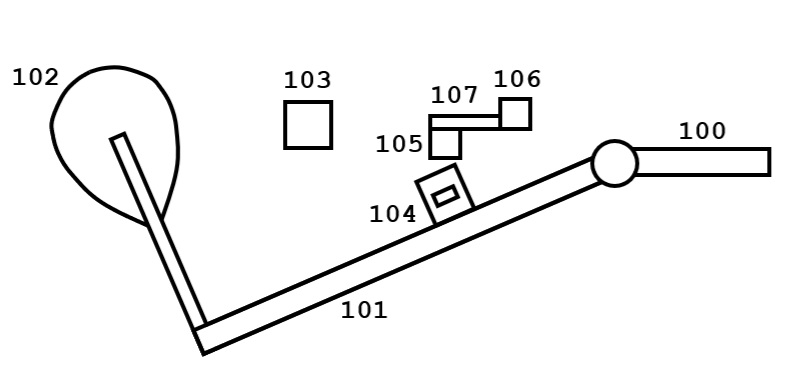
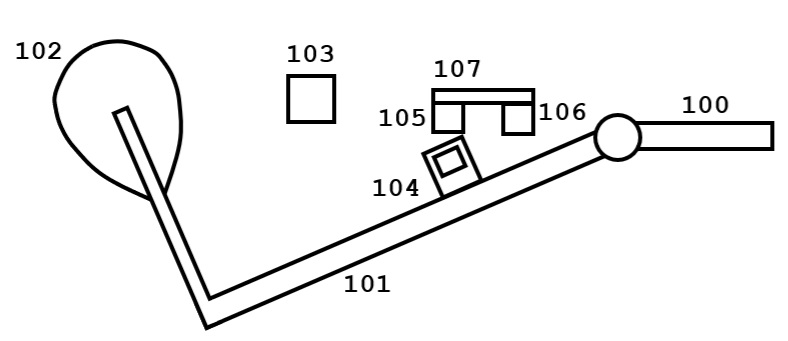
pdps general edits

diff --git a/pdps/README.md b/pdps/README.md
@@ -2,6 +2,8 @@
 
 The open source hybrid piano [1][2] (*OSH Piano*, also known as *stem piano*) measures piano hammer and key positions, converts measurements to velocity, and outputs the results over MIDI. The piano system streams raw sampled hammer and key positions over Ethernet. The key positions are also used to infer damper position.
 
+A hybrid piano combines the physical action of an acoustic piano with MIDI, sound generation, and other features of a digital keyboard.
+
 The following describes a measurement and processing system including compensating for error sources.
 
 The following system is not open source nor included as part of an open source piano.
@@ -21,11 +23,13 @@ Side view of mechanical system and sensors at hammer.
 | 100 | Flange | Standard component of a grand piano action. |
 | 101 | Shank | Standard component of a grand piano action. |
 | 102 | Hammer | Standard component of a grand piano action. |
-| 103 | Stop Bar | Physically stops the hammer motion. In a piano, the hammer would stop when it hits a piano string. |
-| 104 | Optical gate | Precision cut gap in a thin material. Gap shape not necessarily as shown in figure. An alternate method is blocking in center and gap above and below in a 'flag' type structure. |
-| 105 | Phototransmissive System (PTS) | Transmissive light emitting and receiving devices that straddle the optical gate 104 as the hammer 101 moves from rest position to position at stop bar 103. For absolute position measurement references. |
+| 103 | Stop Bar | Physically stops the hammer motion. In a full piano, the hammer would stop when it hits a piano string. |
+| 104 | Optical gate * | Precision cut gap (rectangular region inset as part of (104)) in a thin material mounted to the hammer shank. Gap shape not necessarily as shown in figure. An alternate method is blocking in center and gap above and below in a 'flag' type structure. |
+| 105 | Phototransmissive System (PTS) | Transmissive light emitting and receiving devices that straddle the optical gate (104) as the hammer (101) moves from rest position to position at stop bar (103). For absolute position measurement references. |
 | 106 | Photoreflective System (PRS) | Reflective light emitting and receiving device for continuous hammer shank relative position measurements. |
-| 107 | Sensing Mount | Connecting system for PTS 105 and PRS 106. |
+| 107 | Sensing Mount | Connecting system for PTS (105) and PRS (106). Also includes printed circuit board for biasing circuits and wire connection points. |
+
+* Description later, Fig. 4, describes optical gate (104) initially blocking PTS light. To make all components visible, Fig. 1 shows optical gate (104) not blocking PTS light when hammer is in rest position. In either case, initializing unblocking as shown in Fig. 1 requires only a trivial change to processing.
 
 ## Fig. 2 Mechanical System on Key
 
@@ -36,14 +40,16 @@ Side view of mechanical system and sensors at back of piano key.
 | Item | Name | Description |
 | - | - | - |
 | 201 | Piano key | Standard component of a grand piano action. Shown in figure is back side of the key at damper mechanism mount. Toward left in figure is rear of piano. Movement of key is up and donw. |
-| 204 | Optical gate | Precision cut gap in a thin material. Gap shape not necessarily as shown in figure. |
+| 204 | Optical gate * | Precision cut gap in a thin material. Gap shape not necessarily as shown in figure. |
 | 205 | Phototransmissive System (PTS) | Same as 105. |
 | 206 | Photoreflective System (PRS) | Same as 106. |
 | 207 | Sensing Mount | Same as 107 with differences as needed to account for different physical geometry of a piano key compared to a hammer shank. |
 
+* Similar to Fig. 1, for illustrative clarity only, Fig. 2 shows optical gate (204) initially not blocking PTS (205).
+
 ## Fig. 3 Sensor System (104, 105, 106, 107)
 
-Top view of sensor system at hammer shank. Sensor system for piano key (204), (205), (206), and (207) is functionally identical with different geometries. Components can locate at other positions along hammer shank. Fig. 3 shows one possible arrangement. The location depends on physical access, the transmitting and sensing range of PRS and PTS, and size of the optical gate (104) among other considerations. 
+Top view of sensor system at hammer shank. Sensor system for piano key (204), (205), (206), and (207) is functionally identical with different geometries. Components can locate at other positions along hammer shank. Fig. 3 shows one possible arrangement. The location depends on physical access, the transmitting and sensing range of PRS and PTS, and size of the optical gate (104), (304) among other considerations. 
 
 <img src="./pdps_fig3.jpg" alt="drawing" width="400"/>
 
@@ -67,7 +73,7 @@ The vertical axis is the analog output of a PTS or PRS photoreceiver. The horizo
 | - | - | - |
 | 400 | PRS photoreceiver output signal | Response is nonlinear and subject to PRS (106) manufacturing tolerances.
 | 401 | PTS photoreceiver output signal | Response is high when the optical gate (104) (304) is not blocking PTS photo emitter (306) and photo receiver (305) light path.
-| 402 | Rest position | Output signal of PTS (105) is at level 406 and output of PRS (106) is at level 407.
+| 402 | Rest position | Output signal of PTS (105) is at level 406 and output of PRS (106) is at level 407. If optical gate (104) position initializes to not block PTS (105) light path, then PTS output signal (401) initializes at level 411. Adjustments to processing as described later are minor.
 | 403 | Optical gate start opening | Output signal of PTS (105) photoreceiver goes from level 406 to level 411 as optical gate opening starts to cross the PTS photo emitter (306) and photo receiver (305) light path. Output signal (400) of PRS (106) is at level 408.
 | 404 | Optical gate end opening  | Output signal of PTS (105) goes from level 411 to level 406 as optical gate opening ends crossing of the PTS photo emitter (306) and photo receiver (305) light path. Output signal (400) of PRS (106) is at level 409.
 | 405 | Max position | Output signal (401) of PTS (105) is at level 406 and output signal (400) of PRS (106) is at level 410 when hammer is at hammer stop (103). |
@@ -83,9 +89,9 @@ Each PRS, PTS, and ADC section in Fig. 5 replicates for each hammer. Similarly f
 | Item | Name | Description |
 | - | - | - |
 | 500 | Processing system  | The microprocessor, memory, I/O, LCD, power, and algorithms. |
-| 501 | PRS | One of PRS 106 for a hammer. |
+| 501 | PRS | One of PRS (106) for a hammer or PRS (206) for a key. |
 | 502 | PRS output signal | Waveform along this wire connection is similar to PRS photoreceiver output signal (400). |
-| 503 | PTS | One of PTS 105 for a hammer. | 
+| 503 | PTS | One of PTS (105) for a hammer or PTS (205) for a key. | 
 | 504 | PTS output signal | Waveform along this wire connection is similar to PTS photoreceiver output signal (401). |
 | 505 | Analog to digital converter system (ADC) | Each analog waveform signal connects to a device that converts the signal to a number. In a typical system the sample rate at least meets they Nyquist rate. Each ADC system may include gain circuits, isolation circuits, anti-alias filtering, and other analog signal conditioning. Multiple inputs may be multiplexed into single or sets of ADC.
 | 506 | MIDI | System outputs a MIDI signal calculated according to algorithms as described later. |
@@ -102,13 +108,13 @@ Because a PTS signal (504) is nearly two-level, an alternate embodiment to an AD
 | Item | Name | Description |
 | - | - | - |
 | 600 | Position values | Normalized values, after correction for all system errors as described below, used by algorithms in Processing System 500. |
-| 601 | Velocity values | Normalized velocity values as computed from 600 in Processing System 500. Velocity values are continuously computed they are not computed based on thresholds. Many digital signal processing algorithms exist to compute velocity based on continuously sampled waveforms.
+| 601 | Velocity values | Normalized velocity values as computed from 600 in Processing System (500). Velocity values are continuously computed they are not computed based on thresholds. Many digital signal processing algorithms exist to compute velocity based on continuously sampled waveforms.
 
 ### Fig. 7 Processing System
 
 The processing is described in detail later in this document. The system in Fig. 7 replicates for each hammer signal and for each key (used in part to calculate damper dynamics) signal.
 
-<img src="./pdps_fig7.jpg" alt="drawing" width="400"/>
+<img src="./pdps_fig7.jpg" alt="drawing" width="450"/>
 
 | Item | Name | Description |
 | - | - | - |
@@ -148,13 +154,14 @@ Meeting the following goals presents a significant challenge.
 2. Avoid requiring sensor measurements before sensor installation.
 3. Avoid requiring separate hammer or damper position measurements after sensor installation.
 4. Compensate for PRS response, PRS manufacturing tolerances, and piano mechanical tolerances.
-5. Achieve measurement accuracy sufficient for pianist needs.
+5. Does not require highly accurate positioning of hybrid piano components such as hammer stop bar (103) or sensing mounts (107) and (207).
+6. Achieve measurement accuracy sufficient for pianist needs.
 
 # 4. Sensor Models
 
-To meet these requirements the PRS photoreceiver output signal 400 is inverted into a straight line. To meet requirement 5, the inverted signal must include a consistent distance spacing for all hammers and dampers.
+To meet these requirements the PRS photoreceiver output signal 400 is inverted into a straight line. To meet requirement 6, the inverted signal must include a consistent distance spacing for all hammers and dampers.
 
-Therefore, a mathematical model of the PRS photoreceiver output signal 400 is required. Modeling is for a Vishay CNY70 as PRS device 301. Other PRS devices 301 are possible, each with a potentially different model.
+Therefore, a mathematical model of the PRS photoreceiver output signal 400 is required. Modeling is for a Vishay CNY70 as PRS device (301). Other PRS devices (301) are possible, each with a potentially different model.
 
 ## 4.1 Test System for Model Development
 
@@ -174,7 +181,7 @@ From a physics perspective, the optical sensor output current depends on:
 * Geometric factors such as beam spread and overlap of reflected light on the phototransistor
 * Phototransistor response
 
-The following equation models the physics:
+The following equation (0) models the physics:
 
 $$
 I_C(x) = K \cdot \frac{x^n}{(x^2+b^2)^c} \cdot R \cdot f(\theta) \tag{0}
@@ -192,7 +199,7 @@ This physics-based model is complex and unlikely to satisfy **Requirement 1**.
 
 ## 4.3 Quadratic Exponential Model
 
-A simpler model is necessary. Experimental testing demonstrates that exponential-based models fit the measured response data well for distances greater than approximately 1 millimeter.
+A simpler model is needed. Experimental testing demonstrates that exponential-based models fit the measured response data well for distances greater than approximately 1 millimeter.
 
 ### Model Derivation
 
@@ -258,7 +265,7 @@ Solve for t in equation (8).
 
 $$ t = \frac{x_{motor}}{v_{motor}} \tag{8}$$
 
-Since $v_{motor}$ is constant, the horizontal axis is proportional to distance. The distance at time zero is far from the reflective surface. The distance at time 5 seconds is near to the reflective surface. For checking model fit, the proportional relationship is sufficient.
+Since $v_{motor}$ is constant, the horizontal axis is proportional to distance for this test setup. The distance at time zero is far from the reflective surface. The distance at time 5 seconds is near to the reflective surface. For checking model fit, the proportional relationship is sufficient.
 
 ## 4.4 Exponential Model
 
@@ -314,7 +321,7 @@ First, fit the PRS output signal (400) to (9) by application of (12) and (13) us
 | $x_1$ | Assign to the value 0.75. Other values are possible depending on physical arrangement of piano action and components such as hammer stop bar (103) and sensing mounts (107) or (207). Also influencing selection of $x_1$ is the maximum and minimum possible PRS output values over all manufacturing tolerances of PRS (106) or (206). |
 | $y_1$ | PRS output signal level 409 after ADC and normalization. |
 
-The PRS output signal (400) is normalized by Processing System (500) and (704) to range 0, ..., 1.0. The normalization follows standard practice of setting the ADC reference level and application of number of ADC levels to convert ADC output values to floating point values. The PRS device (301) (for hammer (106) for key (206)) biasing system is setup for output voltage to ensure at least a rest value of less than 0.25 and a minimum normalized maximum value of greater than 0.75 for all PRS devices (301) in the piano.
+The PRS output signal (400) is normalized (704) by Processing System (500) to range 0, ..., 1.0. The normalization follows standard practice of setting the ADC reference level and application of number of ADC levels to convert ADC output values to floating point values. The PRS device (301) (for hammer (106) for key (206)) biasing system is setup for output voltage to ensure at least a rest value of less than 0.25 and a minimum normalized maximum value of greater than 0.75 for all PRS devices (301) in the piano.
 
 With (705), solve (12) and (13) store parameters $a$ and $b$ for each hammer and for each key. Calculation can be continuous or with a separate calibration step (press all keys one at a time) for cases of significant changes in mechanical system, parts changes, or alignments.
 
@@ -324,7 +331,7 @@ Use of PTS does not ensure absolute position consistency (for example, in genera
 
 When playing piano, (708) computes $x_{estimated}$ from ADC output by application of (14).
 
-Subsequent PDPS algorithms running as part of Processing System (500) utilize $x_{estimated}$ (14) as position signal (600) to compute velocity values (601) for MIDI (506) or as input to sound generation algorithms for sound output (508). The algorithms do not use thresholds in computing velocity values. Velocity is computed continuously based on post-calibrated values.
+Subsequent PDPS algorithms running as part of Processing System (500) utilize $x_{estimated}$ (14) as position signal (600) to compute velocity values (601) for MIDI (506) or as input to sound generation algorithms for sound output (508). The algorithms do not use thresholds in computing velocity values. Velocity is computed continuously based on post-corrected values $x_{estimated}$.
 
 ## PDPS Pros and Cons
 
@@ -335,18 +342,18 @@ Subsequent PDPS algorithms running as part of Processing System (500) utilize $x
 
 ### Advantages:
 
-1. Get streaming accurate measurements.
-2. Only need one sensor alignment for position. High precision is possible because avoid the additional tolerances of multiple transmissive devices.
-3. Compute velocity with high precision calibrated signal.
-4. Does not require thresholds or timers for computing velocity.
+1. Outputs streaming accurate measurements of hammer shank and key positions.
+2. Only need one PTS sensor alignment for position. High precision is possible because avoid the additional tolerances of multiple transmissive devices.
+3. Compute velocity with high precision signal.
+4. Does not require thresholds or timers or timing for computing velocity. Full digital signal processing algorithms are available on all input signals.
 5. Fully digital solution with continuous time-series digital signal processing algorithms.
 6. No offline measurements before or when installed.
-7. No strict assembly tolerance requirements. The hammer stop bar (103), and sensor mounts (107) and (207) do not require precision mounting.
-8. Can get even better accuracy with quadratic exponential (1) and with an additional precision cut gap for PTS optical gate (104) or (204) and value $x_2$ (for example test results show much better than the 2% error as described in the disadvantages section above). Or even as many curve-fitting sample points as desired.
-9. Only requires a single PTS which eliminates multiple PTS photo emitter and photoreceiver alignment. Only need one because PRS gives the continuous position.
-10. Absolute position can be setup to only depend on the rest position of hammers. If desired, this can be set very precisely using only the piano action without any of the other assemblies such as hammer stop bar (103), or mounts (107) and (207).
-11. Accuracy of $x_1$ - $x_0$ is the optical gate (104) or (204) opening machining accuracy. Separating tolerances into this single gap opening makes it possible to get extremely high accuracy as a separate step from building the piano and associated tolerances.
-12. When the Nyquist sample rate is met, then can calculate velocity after hammer let-off and while hammer shank is in flight from the jack and at the instant prior to hitting a string. This enables much more precise replication of exact piano action dynamics during piano playing. In general, tracking position, velocity, and even acceleration during hammer and key (hence damper) motion enables a very accurate and precise hybrid piano experience for the pianist.
+7. No strict assembly tolerance requirements. The hammer stop bar (103), and sensor mounts (107) and (207) do not require precision mounting. Hammer stop bar (103) cushioning displacement does not effect accuracy.
+8. Can get even better accuracy with quadratic exponential (1) and with an additional precision cut gap for PTS optical gate (104) or (204) and resulting value pair ($x_2$, $y_2$). Test results show significantly better than the 2% error as described in the disadvantages section above. Or even as many curve-fitting sample points as desired.
+9. Absolute position can be setup to only depend on the rest position of hammers. If desired, it is possible to set relative rest positions precisely using only the piano action without any of the other assemblies such as hammer stop bar (103), or mounts (107) and (207).
+10. Accuracy of ($x_0$,$y_0$) and ($x_1$,$y_1$) is the optical gate (104) or (204) opening machining accuracy. Separating tolerances into this single gap opening makes it possible to get extremely high accuracy as a separate step from building the piano and associated tolerances.
+11. When the Nyquist sample rate is met, calculate velocity after hammer let-off and while hammer shank is in flight from the jack and at the instant prior to hitting a string. This enables more precise replication of exact piano action dynamics during piano playing. In general, tracking position, velocity, and even acceleration during hammer and key (hence damper) motion enables a very accurate and precise hybrid piano experience for the pianist.
+12. Is cool.
 
 # References
 
